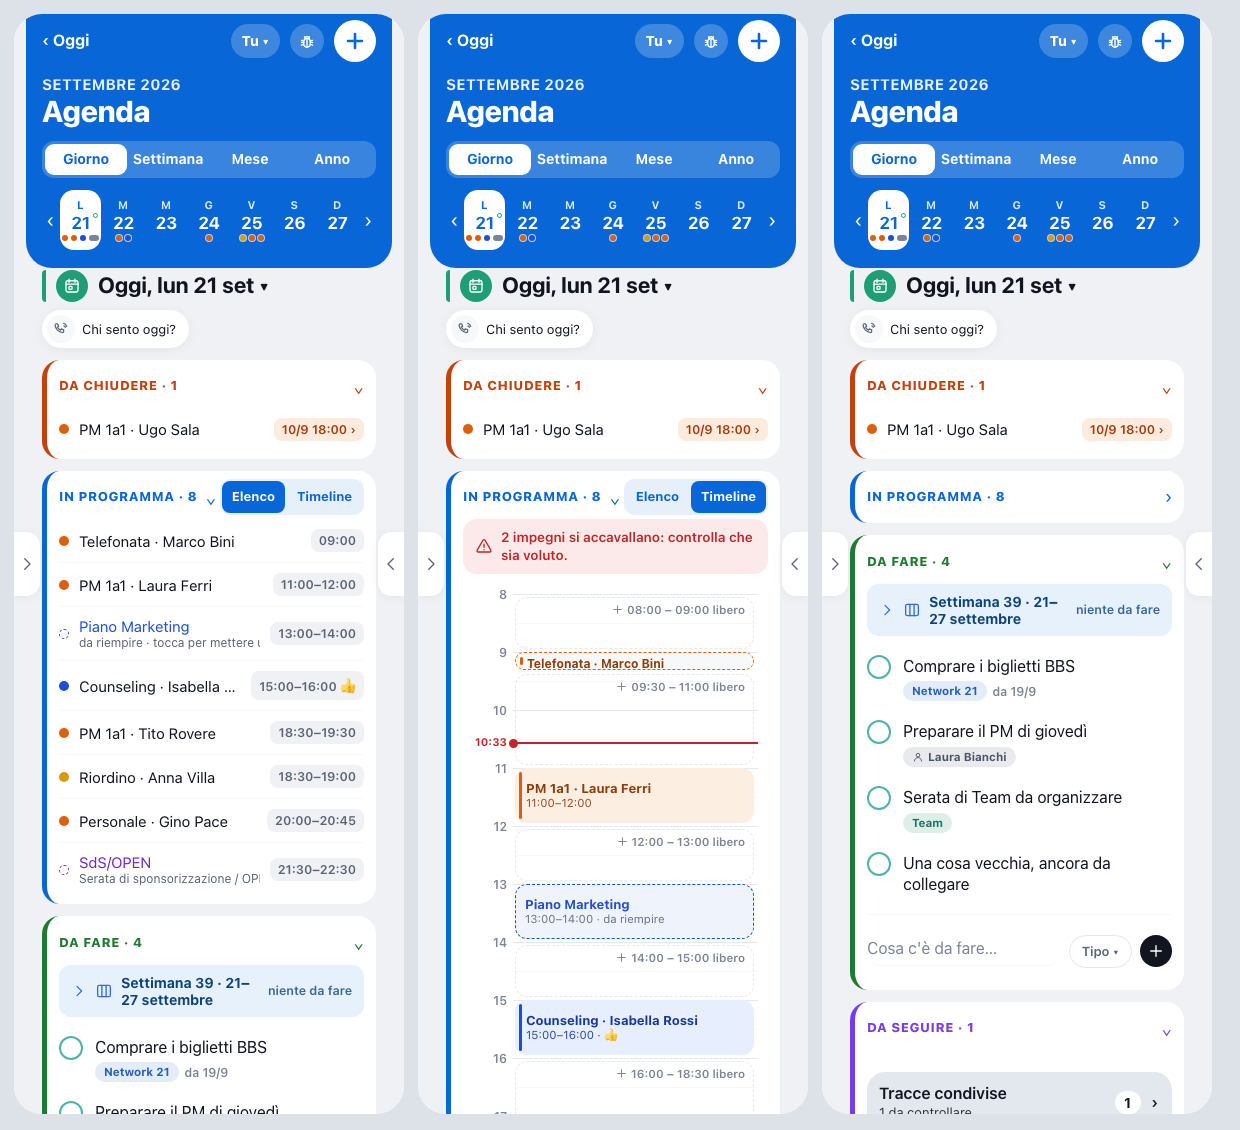
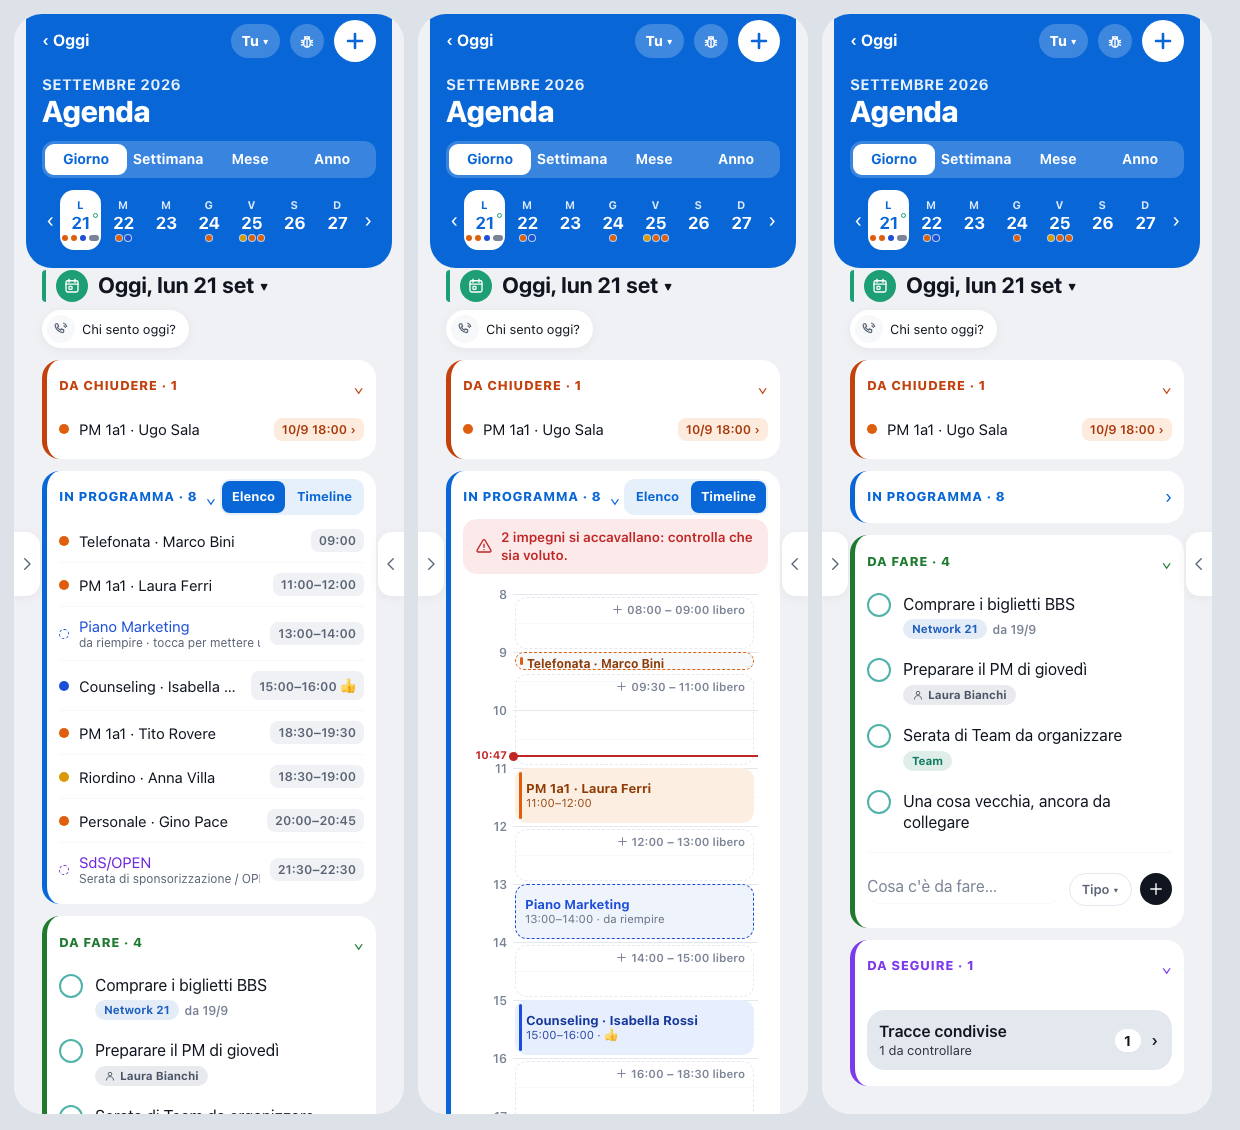
Nota Pagine 098 (Ignazio 26/10): nel Giorno v5 il «Da fare» mostra solo le cose del giorno, senza la settimana ripiegata in cima

diff --git a/pagina-agenda.js b/pagina-agenda.js
@@ -624,12 +624,12 @@ function giornoV5Html(eventi, opz, oggi) {
   const modo = tre ? 'elenco' : modoProgramma();   // sul computer la Timeline sta già nella colonna destra
   const interruttore = tre ? '' : `<div class="a5-modo" role="group" aria-label="Come vedere gli impegni">${[['elenco', 'Elenco'], ['timeline', 'Timeline']].map(([k, t]) => `<button data-a5-modo="${k}"${k === modo ? ' class="scelto" aria-pressed="true"' : ' aria-pressed="false"'}>${t}</button>`).join('')}</div>`;
   h += gruppoV5('programma', 'var(--z-agenda)', 'In programma', quanti, modo === 'timeline' ? `<div class="a5-crono">${grigliaGiorno(eventi, opz)}</div>` : impegniHtml(elenco, opz), interruttore);
-  // Da fare: le cose del giorno (MB21Agenda.coseDelGiorno, come prima), la settimana ripiegata in cima e «+ Una cosa da fare» che apre il campo di sempre
+  // Da fare: solo le cose del giorno (MB21Agenda.coseDelGiorno, come prima) e «+ Una cosa da fare» che apre il campo di sempre. Niente settimana
+  // ripiegata in cima (Ignazio 26/10: «dove c'è il giorno compaiono i da fare del giorno»): quelle della settimana stanno nella Settimana
   const cose = A.coseDelGiorno(AG.cose, AG.giorno, oggi), restano = cose.filter(c => !c.fatto_il).length;
   const gg = g => `${Number(g.slice(8))}/${Number(g.slice(5, 7))}`;
   const piu = AG.cosaAperta === AG.giorno ? nuovaCosaHtml('giorno', 'Cosa c\'è da fare…') : '<button class="link a5-cosa-piu" id="a5-cosa-piu">+ Una cosa da fare</button>';
-  h += gruppoV5('fare', '#1F7A30', 'Da fare', restano, `<div class="ag-foglio">${scalaSopraHtml('settimana', oggi)}
-    ${cose.map(c => rigaCosaHtml(c, 'data-cosa', c.riportata ? `da ${gg(c.riportata)}` : '')).join('')}${piu}
+  h += gruppoV5('fare', '#1F7A30', 'Da fare', restano, `<div class="ag-foglio">${cose.map(c => rigaCosaHtml(c, 'data-cosa', c.riportata ? `da ${gg(c.riportata)}` : '')).join('')}${piu}
     ${AG.cosePiuVecchie && !AG.tutteLeCose ? '<button class="link" id="ag-vedi-tutto">Ci sono cose da fare più vecchie di un anno · Vedi tutto</button>' : ''}</div>`);
   // Da seguire (oggi): le tracce condivise e il mio percorso, gli stessi pezzi e tasti di prima (pagina-sharing.js)
   const tracce = AG.giorno === oggi && typeof tracceHtml === 'function' ? tracceHtml() : '', percorso = AG.giorno === oggi && typeof mioPercorsoHtml === 'function' ? mioPercorsoHtml() : '';

diff --git a/tools/banco/prova_agenda_giorno_v5.js b/tools/banco/prova_agenda_giorno_v5.js
@@ -42,11 +42,11 @@ prova('In programma: Elenco con le righe di sempre; Timeline = la griglia di sem
   mem.clear();
 });
 
-prova('Da fare: le cose del giorno con la spunta, la settimana in cima, «+ Una cosa da fare» che apre il campo di sempre', () => {
+prova('Da fare: solo le cose del giorno con la spunta (niente settimana in cima, Ignazio 26/10), «+ Una cosa da fare» che apre il campo di sempre', () => {
   let h = giorno();
   assert.match(h, /Da fare · 4/);
   assert.equal((h.match(/class="cosa[ "]/g) || []).length, 4);
-  assert.match(h, /class="ag-sopra sc-settimana/);
+  assert.doesNotMatch(h, /class="ag-sopra sc-settimana/);
   assert.match(h, /id="a5-cosa-piu">\+ Una cosa da fare</);
   assert.doesNotMatch(h, /class="ag-cosa-nuova" data-scala="giorno"/);
   AG.cosaAperta = AG.giorno;

diff --git a/STRUTTURA.md b/STRUTTURA.md
@@ -326,7 +326,7 @@ Funzioni: `utente_corrente()` (id in `utenti` di chi è loggato) · `is_admin()`
   - **Quarta pagina v5: il Training** (Regia 25/10 sera; solo la veste). Con `OGGI_V5` `disegnaTraining` mette in cima `testaTrainingV5` (pagina-oggi.js): testata viola con «‹ Oggi», chip del Partner Select, feedback, «Ciao <nome>», «Training» con l'icona, giorni di fila e medaglie (gli stessi tasti `data-medaglie`) e Impara · Ripassa · Studia (gli stessi `data-vista`, ordine di adesso); `collegaTestaTrainingV5` lega «‹ Oggi», feedback e chip. Sotto, il Training di adesso. Nel ripasso la barra è viola e il conto dice «3 di 15». Il riquadro di Oggi apre ancora il ripasso (`TRN.dopo = 'ripasso'`). Disegno `docs/prototipi/schizzo_training_v5_095.png`.
   - **Secondo giro (nota 098), scheda della persona e Contatti del giorno** (pacchetto approvato da Ignazio il 26/10, «sì»; «un Prospect non ha bisogno di Segni Vitali»). Si guarda e basta: tasti, fogli e salvataggi di adesso. In fondo alla scheda (`schedaInPiuV5`, pagina-oggi.js): **Segni Vitali solo per i Partner** («BBS sì · WES no» e il CEP, con la lettura della linguetta, `caricaSegni`), **Prossimo** (il prossimo appuntamento o «Niente in agenda»; sotto, dal 26/10, il **«Da fare» della persona**: la stessa funzione della scheda della Lista, `cosePersonaHtml` in pagina-lista.js con `dentro: true` — spunta, foglio della cosa, «+ Una cosa da fare» che salva in `cose_da_fare` con `contatto_id`, giorno oggi e `user_id` del proprietario; lettura `leggiCose5` tenuta in memoria; `coseDellaScheda` della Lista la chiama come prima) e **Le ultime volte** (le ultime 2 azioni, con la data sempre con l'anno, «14/10/2026», `MB21Lista.data`: Ignazio 26/10; se la riga è lunga la data va a capo, non si taglia). **La traccia di apertura** (nota 098, Ignazio 26/10: «diamo un flow di direzione e visione ben definito»): sotto un Piano Marketing a un candidato (`MB21Sharing.perChiDi` = 'ospite') la riga «Traccia di apertura · da condividere» con «Condivisa» o «condivisa ✓» (`tracciaAperturaV5`: la traccia del Media Sharing per il candidato con ordine 0; biblioteca da `leggiMateriali`, condivisioni della persona in una lettura piccola tenuta in memoria); il tocco usa la stessa scrittura della linguetta Sharing (`scriviCondivisione`/`annullaCondivisione` in pagina-sharing.js, che ora usa anche `registraCondivisione`), con «Annulla». Dalla scheda v5, dopo «PM Fissato» a un candidato, niente domanda «Hai condiviso la traccia di apertura?»: `toccaBottone` (`restaV5`) tiene aperta la scheda (`LV.restaSu`, con «✓ PM Fissato» al posto del tasto dell'esito; si azzera cambiando pagina) e poi la chat del coach come prima; dagli altri punti (Lista, Agenda, Dashboard di prima) la domanda resta, dalle ultime 5 azioni della persona (una richiesta). In Contatti del giorno **«Già sentiti oggi»** con tutti gli esiti di oggi, una riga per persona con categoria ed esito (`sentitiOggiV5`, una richiesta; finché non arriva, quelli chiusi da qui con «fatto»). Le letture si tengono in memoria (`P5`) finché non c'è una scrittura (`SCRITTURE.ultima`). Disegno `docs/prototipi/schizzo_scheda_098.png`.
   - **Terza pagina v5: l'Agenda** (Regia 25/10 sera; solo la veste). Sul telefono (`!largo()`) `testaScala(mostraOggi, dentro)` diventa `testaAgendaV5` (pagina-oggi.js): testata blu Agenda con «‹ Oggi» (`#v5-indietro`), il mese, «Agenda», «Oggi» e «+» con gli stessi id di prima (`#ag-oggi`, `#ag-nuovo` → `foglioAggiungi`), il chip del Partner Select, il feedback, Giorno · Settimana · Mese · Anno (`data-v5-scala` → `cambiaVista`, la stessa del menu) e, nel Giorno, la striscia della settimana di adesso (`striscia`). Sotto, l'Agenda resta quella di adesso (impegni, foglio del giorno, Timeline, linguette, moduli, esiti). `partnerSelectAgenda()`: la fascia grande del Partner Select solo senza la veste nuova (computer). I collegamenti nuovi in `collegaAgenda`. Il tondo del feedback si nasconde da solo dove c'è una testata v5 (`body:has(.v5-testa) #segnala`). Disegno `docs/prototipi/schizzo_agenda_v5_095.png`.
-  - **Secondo giro (nota 098), il Giorno dell'Agenda in quattro gruppi** (Ignazio «sì» 26/10, proposta A; con la veste v5, telefono e computer: `giornoV5()` = `OGGI_V5`; senza, il Giorno di prima). Sotto la testata, dalla cosa più urgente (`giornoV5Html` in pagina-agenda.js), ogni gruppo col suo colore e che si apre e si chiude (`gruppoV5`, chiave `g5-…` in `sezioniChiuse`: lì vuol dire chiuso): **Da chiudere · N** (arancio scuro #C2410C, solo nel Giorno di oggi): gli impegni passati senza esito, dalla lettura di sempre `senza_esito` (`AG.passati`, al massimo `LIMITE_SENZA_ESITO`, allora «N+»), con «ieri 18:00 ›»; il tocco apre `foglioEvento` come «Da chiudere» del Programma della settimana; senza niente il gruppo non c'è. **In programma · N** (blu): gli impegni del giorno (meno quelli già in Da chiudere), spazi e ricevuti; in testa l'interruttore **Elenco · Timeline** (`modoProgramma`, ricordato sul dispositivo in `localStorage` «mb21-agenda-programma»): Elenco = `impegniHtml`, Timeline = `grigliaGiorno` in una scatola che scorre (`.a5-crono`); sul computer solo l'Elenco (la Timeline è già nella colonna destra). Il cassetto «Timeline» in fondo non c'è più con la veste v5. **Da fare · N** (verde): la settimana ripiegata in cima (`scalaSopraHtml`), le cose del giorno (`coseDelGiorno`, spunta e `foglioCosa` di sempre, `collegaCose`) e in fondo «+ Una cosa da fare», che apre il campo di sempre (`nuovaCosaHtml('giorno')` con «Tipo ▾»; `AG.cosaAperta`). **Da seguire · N** (viola, solo oggi): `tracceHtml` e `mioPercorsoHtml` con i loro tasti (`collegaDaSeguireAgenda`). Sopra i gruppi restano il titolo del giorno, «Chi sento oggi?» e i compleanni. Nessuna lettura nuova. Collegamenti in `collegaGiornoV5`. Settimana, Mese e Anno come prima. Prove `tools/banco/prova_agenda_giorno_v5.js` (l'anteprima `tools/design/anteprima_agenda.js` con `globalThis.AGENDA_V5`). Disegno `docs/prototipi/schizzo_agenda_giorno_098.png`.
+  - **Secondo giro (nota 098), il Giorno dell'Agenda in quattro gruppi** (Ignazio «sì» 26/10, proposta A; con la veste v5, telefono e computer: `giornoV5()` = `OGGI_V5`; senza, il Giorno di prima). Sotto la testata, dalla cosa più urgente (`giornoV5Html` in pagina-agenda.js), ogni gruppo col suo colore e che si apre e si chiude (`gruppoV5`, chiave `g5-…` in `sezioniChiuse`: lì vuol dire chiuso): **Da chiudere · N** (arancio scuro #C2410C, solo nel Giorno di oggi): gli impegni passati senza esito, dalla lettura di sempre `senza_esito` (`AG.passati`, al massimo `LIMITE_SENZA_ESITO`, allora «N+»), con «ieri 18:00 ›»; il tocco apre `foglioEvento` come «Da chiudere» del Programma della settimana; senza niente il gruppo non c'è. **In programma · N** (blu): gli impegni del giorno (meno quelli già in Da chiudere), spazi e ricevuti; in testa l'interruttore **Elenco · Timeline** (`modoProgramma`, ricordato sul dispositivo in `localStorage` «mb21-agenda-programma»): Elenco = `impegniHtml`, Timeline = `grigliaGiorno` in una scatola che scorre (`.a5-crono`); sul computer solo l'Elenco (la Timeline è già nella colonna destra). Il cassetto «Timeline» in fondo non c'è più con la veste v5. **Da fare · N** (verde): solo le cose del giorno (Ignazio 26/10: niente settimana ripiegata in cima, quelle della settimana stanno nella Settimana) (`coseDelGiorno`, spunta e `foglioCosa` di sempre, `collegaCose`) e in fondo «+ Una cosa da fare», che apre il campo di sempre (`nuovaCosaHtml('giorno')` con «Tipo ▾»; `AG.cosaAperta`). **Da seguire · N** (viola, solo oggi): `tracceHtml` e `mioPercorsoHtml` con i loro tasti (`collegaDaSeguireAgenda`). Sopra i gruppi restano il titolo del giorno, «Chi sento oggi?» e i compleanni. Nessuna lettura nuova. Collegamenti in `collegaGiornoV5`. Settimana, Mese e Anno come prima. Prove `tools/banco/prova_agenda_giorno_v5.js` (l'anteprima `tools/design/anteprima_agenda.js` con `globalThis.AGENDA_V5`). Disegno `docs/prototipi/schizzo_agenda_giorno_098.png`.
 - **Scheda contatto, ultime parti (nota Pagine 094, scelte di Ignazio del 25/10):**
   - **Modifica (M1-M8)**, `apriModulo` (pagina-lista.js):
     - M1: la categoria cambiata dal modulo fa le stesse cose del menu «…». Archiviato scelto → `archivia_contatto` (anche per un contatto senza categoria; prima `cataloga_contatto`). Da Archiviato a un'altra → `ripristina_contatto` (tornano azioni e rientro), poi la categoria scelta se è diversa da `categoria_prec` (update; senza categoria di prima `cataloga_contatto`). I dati si salvano prima, con la categoria di adesso.
